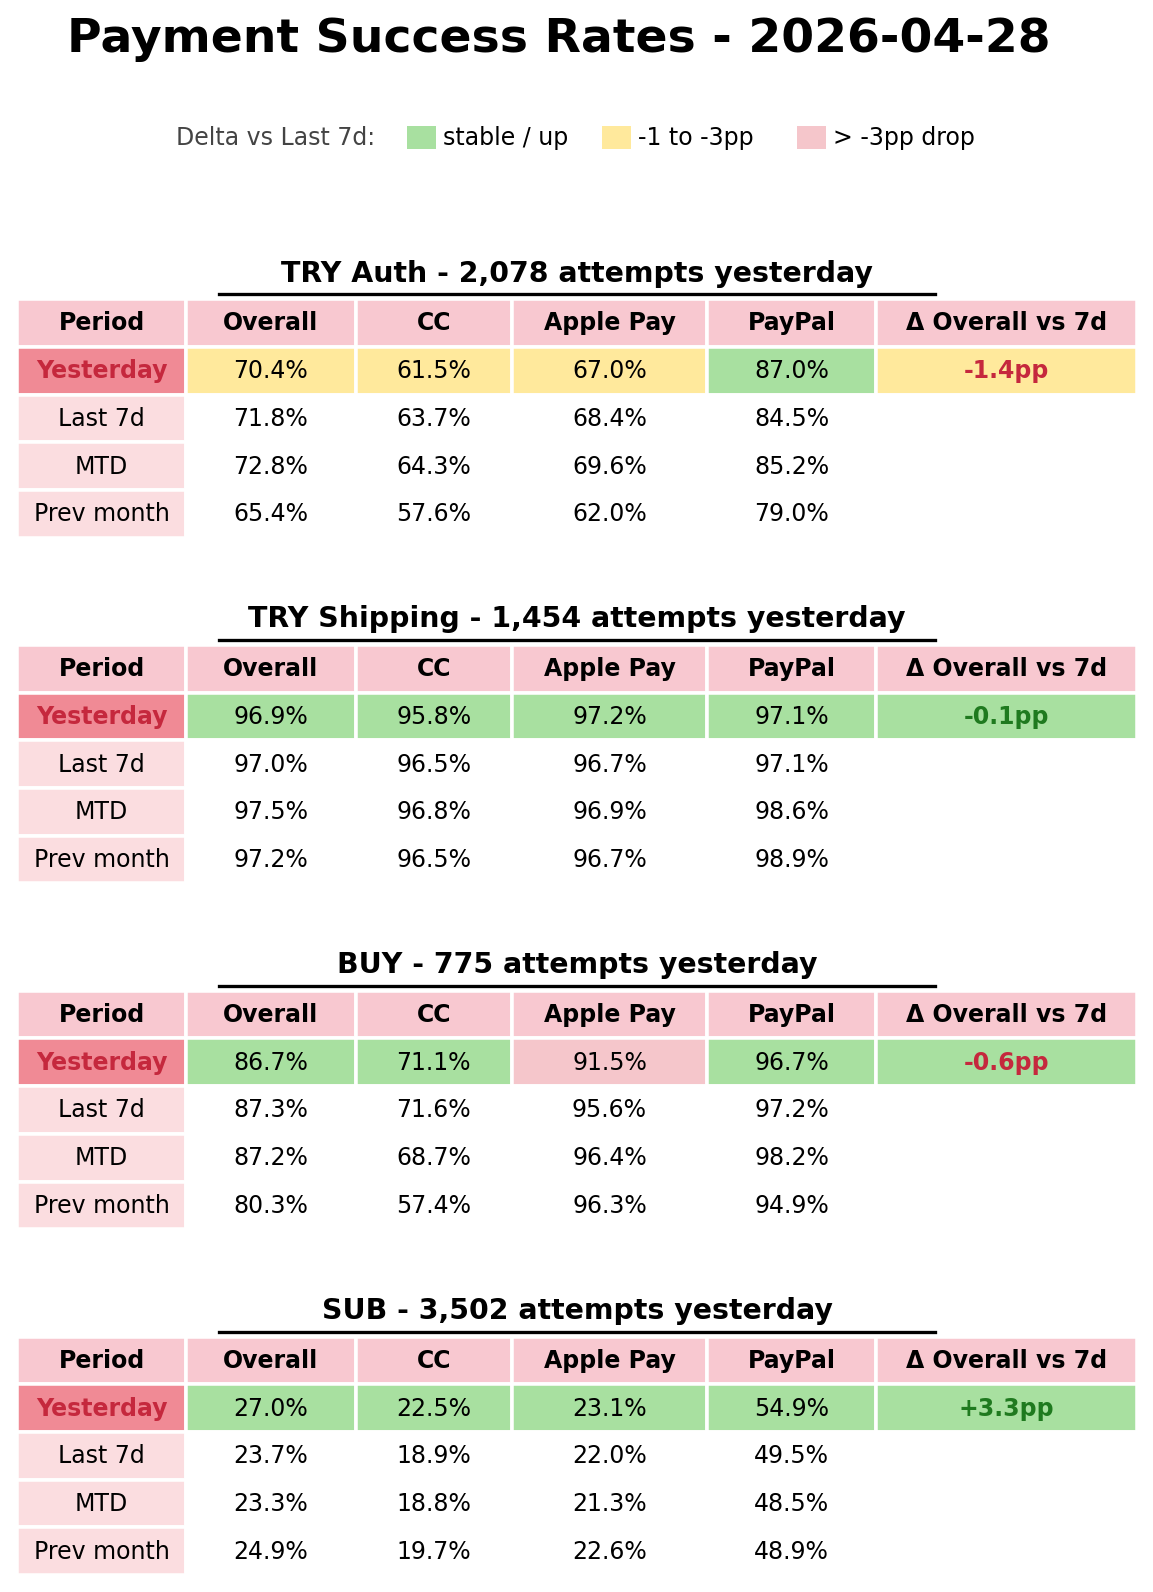
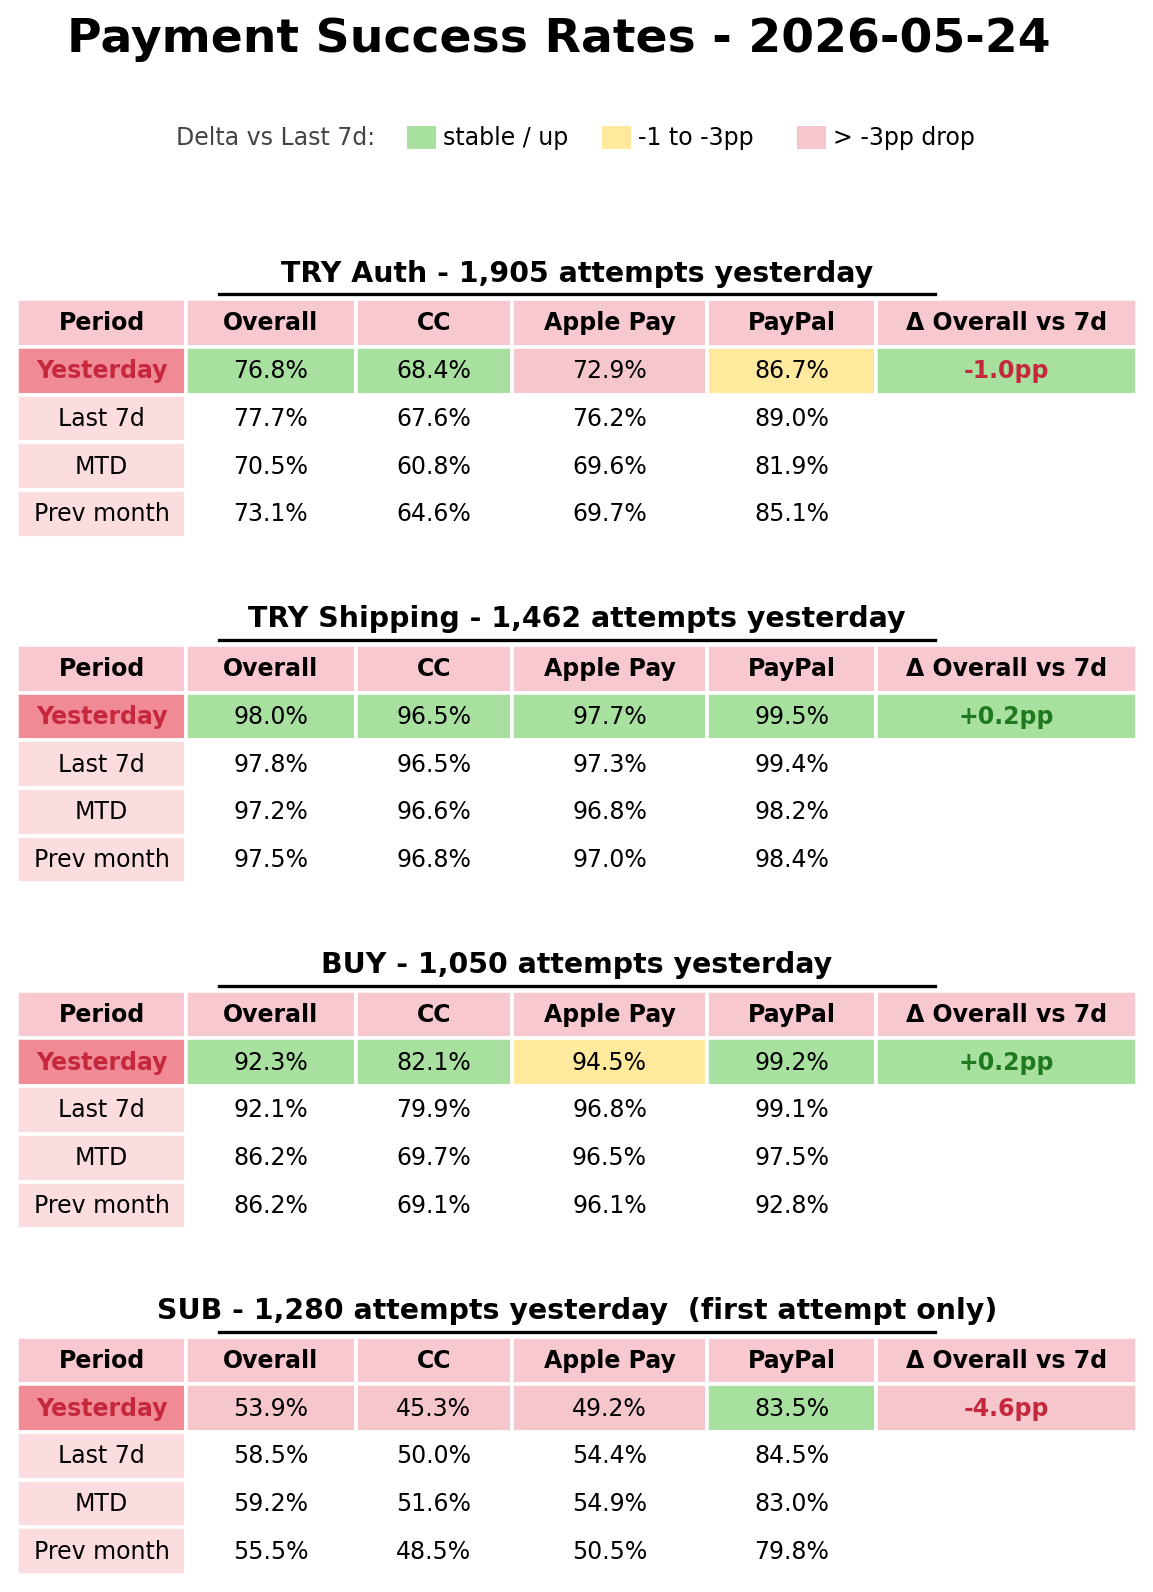
Filter SUB success rate to ConsecutiveChargeAttempt=1 (first billing attempt only)
- SQL: add sub_first_attempt CTE (AttemptsAmount=1 from SubscriptionsRecurringOrders_v)
  and JOIN into sub_pivot + sub_overall to exclude dunning retries
- run_daily_payments.py: SUB panel now displays "(first attempt only)" in its title

diff --git a/run_daily_payments.py b/run_daily_payments.py
@@ -54,10 +54,10 @@ PERIOD_FROM_KEY = {
 }
 METRICS = [("Overall", "Overall"), ("CC", "CC"), ("AP", "Apple Pay"), ("PP", "PayPal")]
 FUNNELS = [
-    ("TryAuth", "TRY Auth"),
-    ("TryShip", "TRY Shipping"),
-    ("Buy",     "BUY"),
-    ("Sub",     "SUB"),
+    ("TryAuth", "TRY Auth",     None),
+    ("TryShip", "TRY Shipping", None),
+    ("Buy",     "BUY",          None),
+    ("Sub",     "SUB",          "first attempt only"),
 ]
 
 # Pink/coral palette
@@ -81,10 +81,12 @@ def tx_for(delta: float) -> str:
     return RED_TX if delta < -0.5 else GREEN_TX
 
 
-def render_funnel(ax, prefix: str, short_title: str, rows: dict) -> None:
+def render_funnel(ax, prefix: str, short_title: str, rows: dict, note: str = None) -> None:
     ax.axis("off")
     yest_total = rows["Yesterday"][f"{prefix}_Total"]
     title = f"{short_title} - {yest_total:,} attempts yesterday"
+    if note:
+        title += f"  ({note})"
     ax.text(0.5, 1.05, title, ha="center", va="bottom",
             transform=ax.transAxes, fontsize=12, fontweight="bold", color="#000")
     ax.plot([0.18, 0.82], [1.02, 1.02], color="#000", linewidth=1.4,
@@ -164,9 +166,9 @@ def generate_image(rows: dict, report_date: str, out_path: Path) -> None:
     fig.text(0.690, y, "> -3pp drop", ha="left", va="center", fontsize=10)
 
     gs = fig.add_gridspec(4, 1, top=0.81, bottom=0.02, hspace=0.45)
-    for i, (prefix, short_title) in enumerate(FUNNELS):
+    for i, (prefix, short_title, note) in enumerate(FUNNELS):
         ax = fig.add_subplot(gs[i, 0])
-        render_funnel(ax, prefix, short_title, rows)
+        render_funnel(ax, prefix, short_title, rows, note=note)
 
     plt.savefig(out_path, dpi=170, bbox_inches="tight", facecolor="white")
     plt.close(fig)